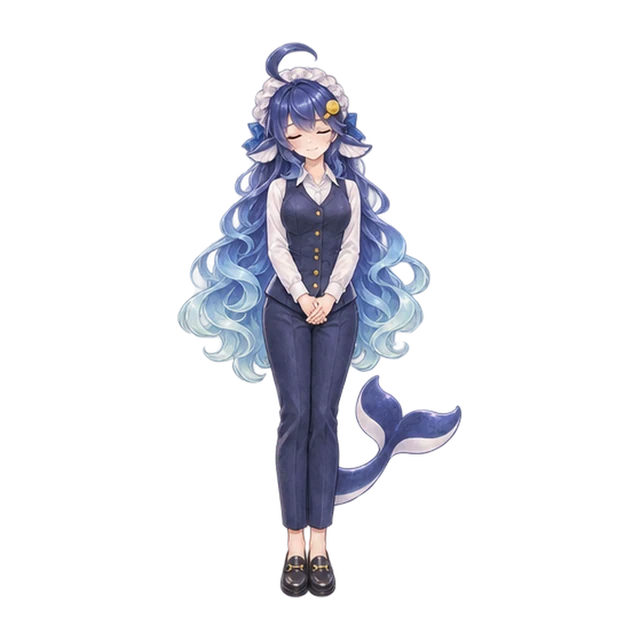
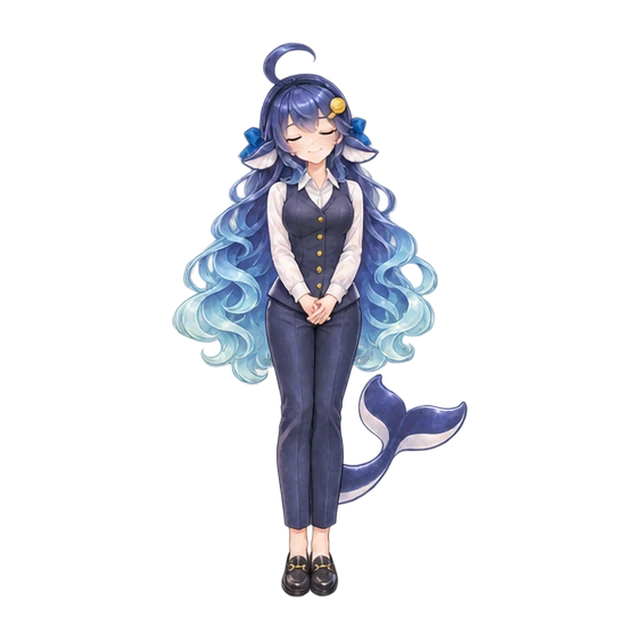
秘书形象女生版按 ming 意见重画：去掉花边头饰、打盹站着、毒舌挑眉加大、小星闭眼对色

Changed region(s): [[0.25, 0.0625, 0.75, 0.9375]]

diff --git a/Sources/LedgerUI/MascotData.swift b/Sources/LedgerUI/MascotData.swift
@@ -37,16 +37,16 @@ enum MascotData {
         "xiaxia-biz-boy-think": (0.436, 0.192, 0.21),
         "xiaxia-biz-boy-worried": (0.448, 0.196, 0.21),
         "xiaxia-biz-boy-write": (0.468, 0.186, 0.21),
-        "xiaxia-biz-calm": (0.487, 0.216, 0.21),
-        "xiaxia-biz-celebrate": (0.491, 0.217, 0.21),
-        "xiaxia-biz-cheer": (0.488, 0.216, 0.21),
-        "xiaxia-biz-hello": (0.491, 0.213, 0.21),
-        "xiaxia-biz-idle": (0.49, 0.216, 0.21),
-        "xiaxia-biz-sharp": (0.497, 0.212, 0.21),
-        "xiaxia-biz-sleep": (0.384, 0.252, 0.21),
-        "xiaxia-biz-think": (0.497, 0.213, 0.21),
-        "xiaxia-biz-worried": (0.486, 0.221, 0.21),
-        "xiaxia-biz-write": (0.507, 0.221, 0.21),
+        "xiaxia-biz-calm": (0.489, 0.214, 0.21),
+        "xiaxia-biz-celebrate": (0.489, 0.217, 0.21),
+        "xiaxia-biz-cheer": (0.492, 0.219, 0.21),
+        "xiaxia-biz-hello": (0.499, 0.217, 0.21),
+        "xiaxia-biz-idle": (0.49, 0.217, 0.21),
+        "xiaxia-biz-sharp": (0.483, 0.216, 0.21),
+        "xiaxia-biz-sleep": (0.478, 0.218, 0.21),
+        "xiaxia-biz-think": (0.5, 0.219, 0.21),
+        "xiaxia-biz-worried": (0.493, 0.226, 0.21),
+        "xiaxia-biz-write": (0.501, 0.228, 0.21),
         "xiaxia-boy-calm": (0.509, 0.382, 0.4),
         "xiaxia-boy-celebrate": (0.523, 0.337, 0.4),
         "xiaxia-boy-cheer": (0.501, 0.376, 0.4),
